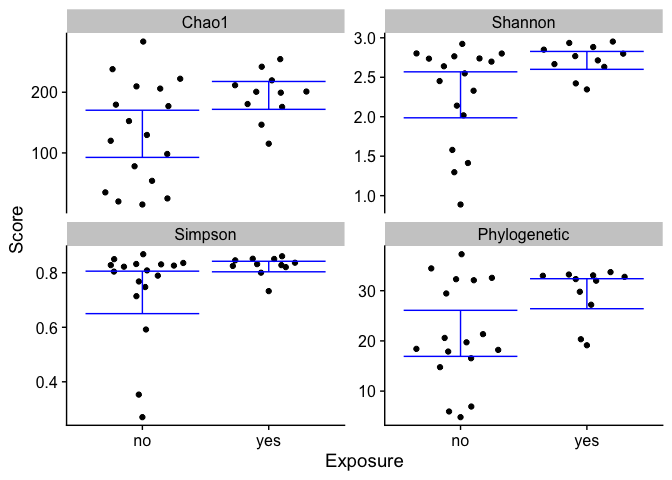
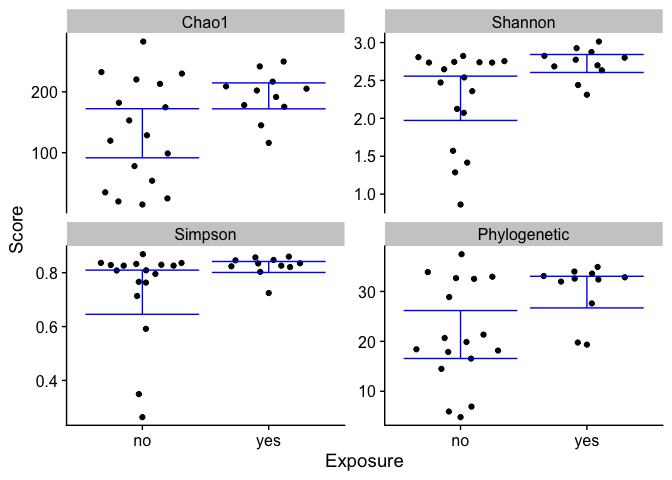
re-knit README to reflect changes to tutorial

diff --git a/README.md b/README.md
@@ -11,8 +11,9 @@ microbData Package
   - <a href="#estimate-diversity" id="toc-estimate-diversity">Estimate
     diversity</a>
   - <a href="#plot-results" id="toc-plot-results">Plot results</a>
-- <a href="#use-data-in-with-other-tools"
-  id="toc-use-data-in-with-other-tools">Use data in with other tools.</a>
+- <a href="#using-microbdata-in-with-other-tools"
+  id="toc-using-microbdata-in-with-other-tools">Using
+  <code>microbData</code> in with other tools</a>
 
 The purpose of this package is to provide tools to make management of
 microbiome data (both amplicon and shotgun sequencing) easy in R. It
@@ -44,12 +45,12 @@ remotes::install_github("kstagaman/microbData")
 library(microbData)
 
 ## load data
-data("metadata_dt")  # creates metadata.dt
-setkey(metadata.dt, Sample)
-data("asv_mat")      # creates asv.mat
-data("taxonomy_dt")  # creates taxonomy.dt
-setkey(taxonomy.dt, ASV)
-data("phylogeny")    # creates phylogeny
+data("metadata_dt")  # loads example metadata.dt
+setkey(metadata.dt, Sample) # this will tell microbData that this column contains our sample names
+data("asv_mat")      # loads example asv.mat
+data("taxonomy_dt")  # loads example taxonomy.dt
+setkey(taxonomy.dt, ASV) # this will tell microbData that this column contains our feature names
+data("phylogeny")    # loads example phylogeny
 
 
 ## create microbData object
@@ -192,7 +193,7 @@ mD3 <- rarefy(mD2)
     ## Rarefying to: 13000
     ## Random seed: 10403
     ## Number of samples dropped: 18
-    ## Number of features dropped: 682
+    ## Number of features dropped: 684
 
 ``` r
 print(mD3)
@@ -211,10 +212,10 @@ print(mD3)
     ## Feature Abundances: 1462 features
     ## Preview:
     ##     ASV0001 ASV0002 ASV0003 ASV0004
-    ## A01    3939    3082    1202     945
-    ## A02   11088     561     168     102
-    ## A03    4403    2905    1113     798
-    ## A05    1501       0       0       0
+    ## A01    3981    3241    1139     977
+    ## A02   11139     557     153     130
+    ## A03    4309    2924    1082     819
+    ## A05    1420       0       0       0
     ## 
     ## Feature Assignments: 6 levels assigned
     ## Preview:
@@ -257,20 +258,20 @@ print(mD4)
     ## Sample Metadata: 28 samples with 5 covariates
     ## Preview:
     ## Key: <Sample>
-    ##    Sample Exposure   Shannon   Simpson
-    ##    <char>   <fctr>     <num>     <num>
-    ## 1:    A01       no 2.8020692 0.8359077
-    ## 2:    A02       no 0.8878638 0.2702615
-    ## 3:    A03       no 2.8008716 0.8222141
-    ## 4:    A05       no 2.1402417 0.7680521
+    ##    Sample Exposure  Shannon   Simpson
+    ##    <char>   <fctr>    <num>     <num>
+    ## 1:    A01       no 2.735710 0.8286525
+    ## 2:    A02       no 0.862923 0.2635847
+    ## 3:    A03       no 2.823123 0.8263305
+    ## 4:    A05       no 2.124319 0.7633306
     ## 
     ## Feature Abundances: 1462 features
     ## Preview:
     ##     ASV0001 ASV0002 ASV0003 ASV0004
-    ## A01    3939    3082    1202     945
-    ## A02   11088     561     168     102
-    ## A03    4403    2905    1113     798
-    ## A05    1501       0       0       0
+    ## A01    3981    3241    1139     977
+    ## A02   11139     557     153     130
+    ## A03    4309    2924    1082     819
+    ## A05    1420       0       0       0
     ## 
     ## Feature Assignments: 6 levels assigned
     ## Preview:
@@ -338,20 +339,20 @@ print(mD5)
     ## Sample Metadata: 28 samples with 5 covariates
     ## Preview:
     ## Key: <Sample>
-    ##    Sample Exposure   Shannon   Simpson
-    ##    <char>   <fctr>     <num>     <num>
-    ## 1:    A01       no 2.8020692 0.8359077
-    ## 2:    A02       no 0.8878638 0.2702615
-    ## 3:    A03       no 2.8008716 0.8222141
-    ## 4:    A05       no 2.1402417 0.7680521
+    ##    Sample Exposure  Shannon   Simpson
+    ##    <char>   <fctr>    <num>     <num>
+    ## 1:    A01       no 2.735710 0.8286525
+    ## 2:    A02       no 0.862923 0.2635847
+    ## 3:    A03       no 2.823123 0.8263305
+    ## 4:    A05       no 2.124319 0.7633306
     ## 
     ## Feature Abundances: 1462 features
     ## Preview:
     ##     ASV0001 ASV0002 ASV0003 ASV0004
-    ## A01    3939    3082    1202     945
-    ## A02   11088     561     168     102
-    ## A03    4403    2905    1113     798
-    ## A05    1501       0       0       0
+    ## A01    3981    3241    1139     977
+    ## A02   11139     557     153     130
+    ## A03    4309    2924    1082     819
+    ## A05    1420       0       0       0
     ## 
     ## Feature Assignments: 6 levels assigned
     ## Preview:
@@ -382,30 +383,6 @@ print(mD5)
 ord.dts <- ordination.coords(mD5, constraint.coords = TRUE)
 names(ord.dts$Centroids)[2] <- ord.dts$Centroids$Variable[1]
 
-# some fussing about to make nice axis labels on a faceted plot
-# (there's probably a less verbose way to do this)
-label.pad <- 1.1
-ord.dts$Axis.labs[
-  Axis == "Axis1", 
-  `:=`(
-    Axis1 = ord.dts$Samples[, .(A1 = max(Axis1) * label.pad), by = Beta.metric]$A1,
-    Axis2 = ord.dts$Samples[, .(A2 = min(Axis2) * label.pad), by = Beta.metric]$A2
-  )
-]
-ord.dts$Axis.labs[
-  Axis == "Axis2", 
-  `:=`(
-    Axis1 = ord.dts$Samples[, .(A1 = min(Axis1) * label.pad), by = Beta.metric]$A1,
-    Axis2 = ord.dts$Samples[, .(A2 = max(Axis2) * label.pad), by = Beta.metric]$A2
-  )
-]
-ord.dts$Axis.labs[
-  , `:=`(
-    Angle = ifelse(Axis == "Axis1", 0, 90),
-    Vjust = ifelse(Axis == "Axis1", 1, 0)
-  )
-]
-
 # plotting
 ggplot(ord.dts$Samples, aes(x = Axis1, y = Axis2)) +
   geom_point(aes(color = Exposure)) +
@@ -425,7 +402,7 @@ ggplot(ord.dts$Samples, aes(x = Axis1, y = Axis2)) +
 
 ![](README_files/figure-gfm/plot-beta-1.png)<!-- -->
 
-## Use data in with other tools.
+## Using `microbData` in with other tools
 
 While I tried to cover the very basic analyses that most people run on
 microbiome data in the package, the reality is that I can’t cover
